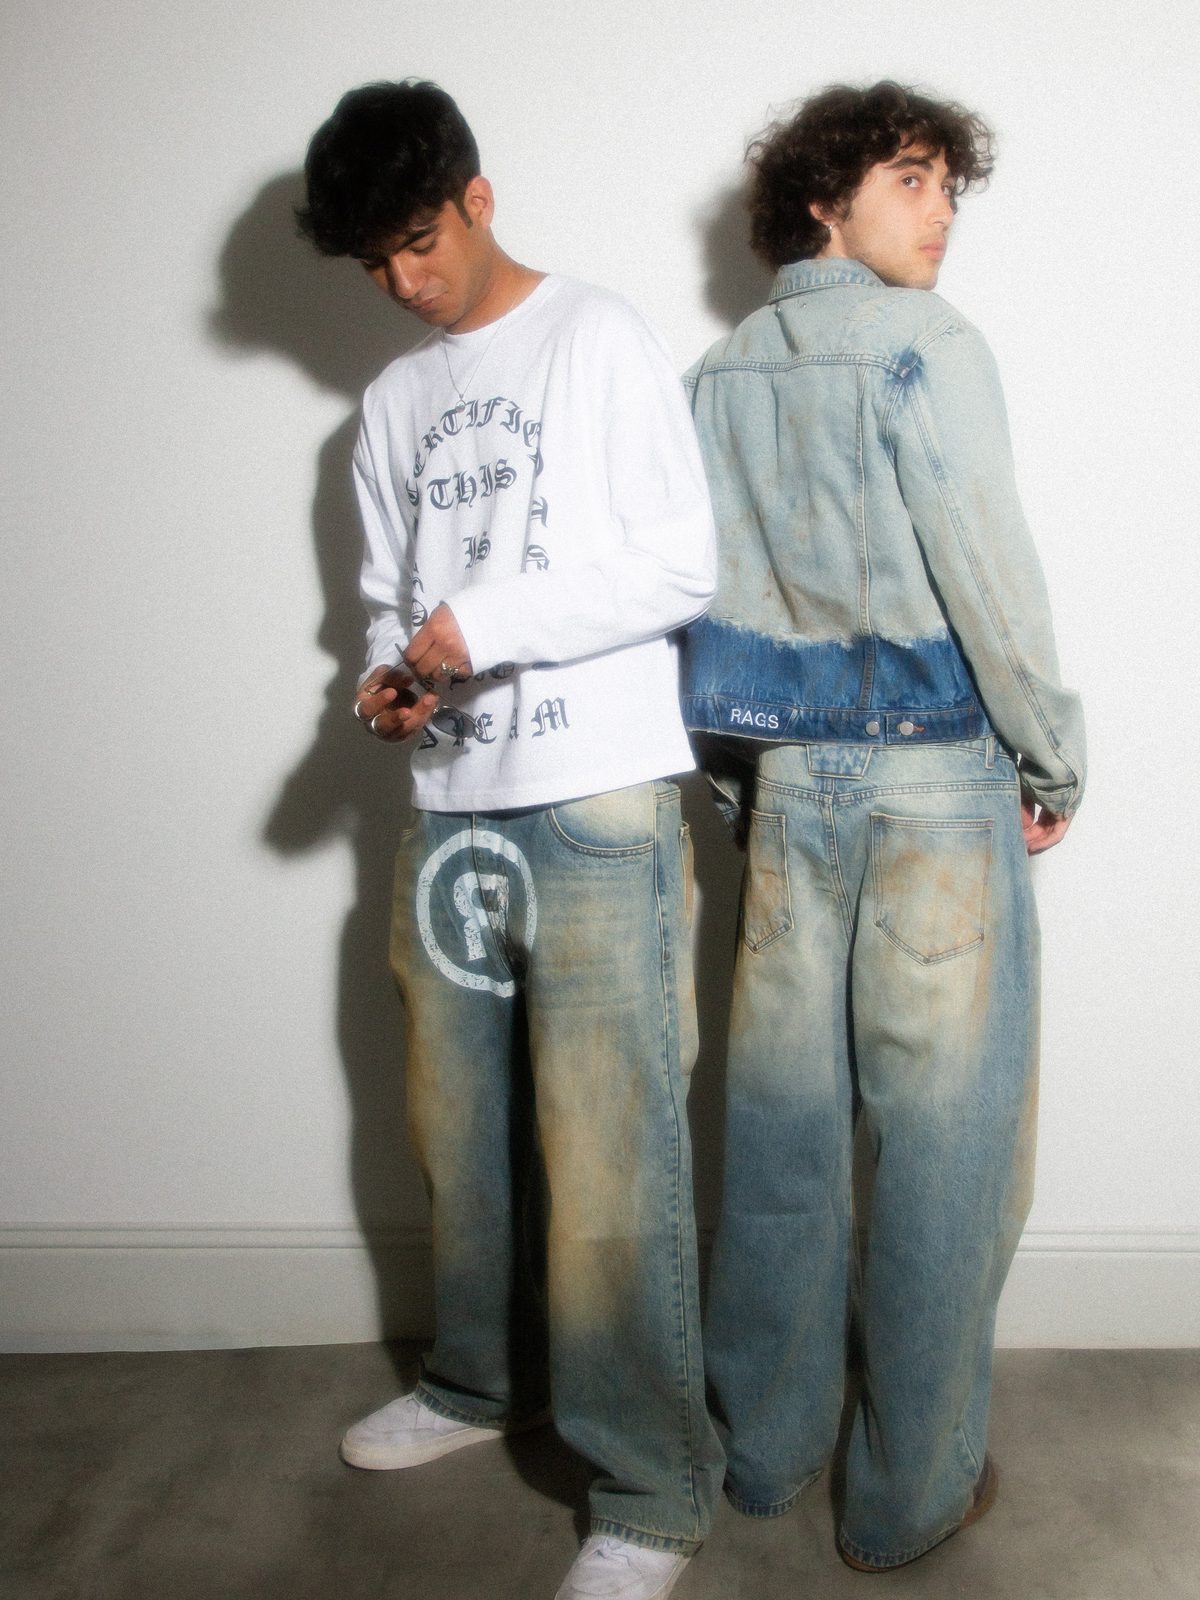
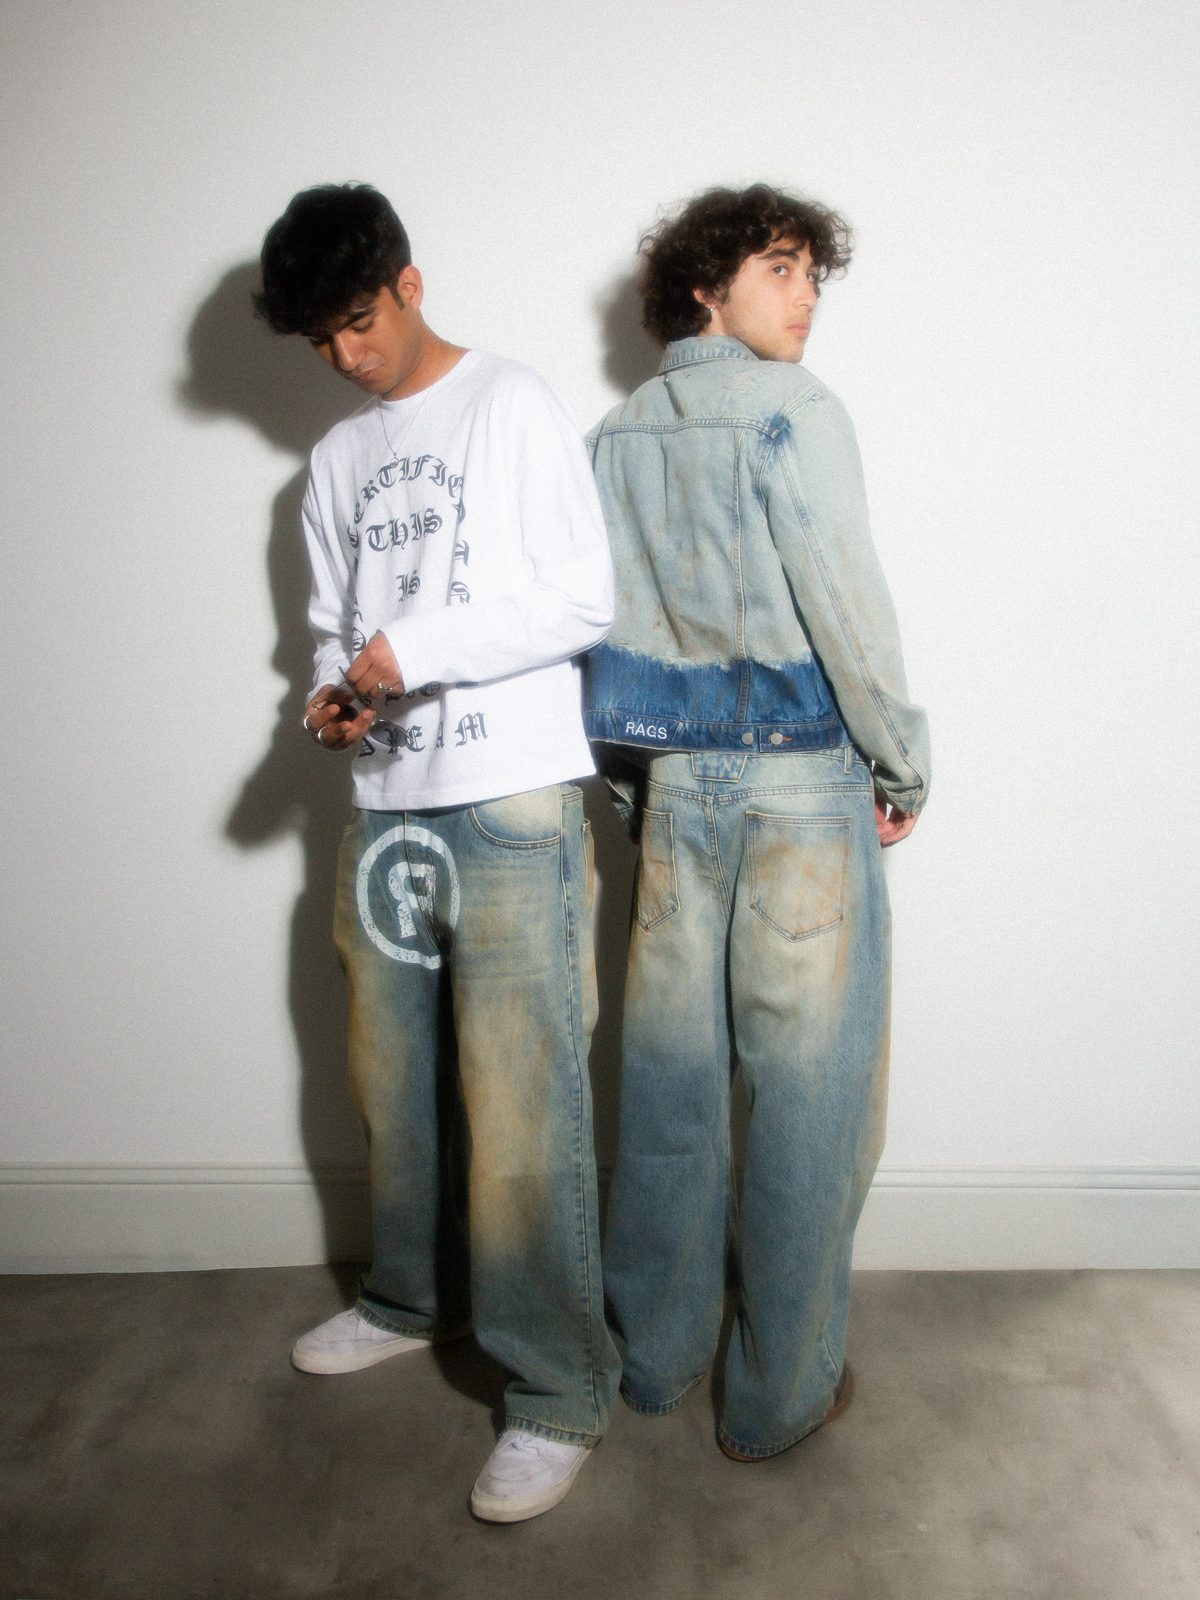
Home carousel: aligned edges, no cropped heads or feet
Render every photo in the same fixed 3:4 box so left and right edges
line up on every screen size. Rebuild the Pull&Bear photos from the
full originals, extending the studio backdrop at the sides instead of
cropping top and bottom, and restore the full frame of _MG_2799.

Claude-Session: https://claude.ai/code/session_012XeHsNCsxQhTQRDgts5yE7

diff --git a/src/data/home.ts b/src/data/home.ts
@@ -1,6 +1,7 @@
 // Photos for the scrolling column on the home page (files in public/home/).
 // Order rotates: MAD Fashion (Madrid) -> Pull&Bear editorial -> NYU FBA show.
-// Every photo is exactly 3:4, cropped with the subject centered.
+// Every photo is exactly 3:4 (1200x1600). Full body shots keep the head and feet:
+// the Pull&Bear studio shots have their backdrop extended at the sides instead of being cropped.
 
 export type Panel =
   | { type: "image"; src: string; alt: string; width?: number; height?: number }
@@ -8,17 +9,17 @@ export type Panel =
 
 export const PANELS: Panel[] = [
   { type: "image", src: "/home/mg-2502.jpg", alt: "MAD Fashion show, Madrid: model in an oversized black leather jacket", width: 1200, height: 1600 },
-  { type: "image", src: "/home/pullbear-25.jpg", alt: "Pull&Bear editorial: tan washed jacket with wide leg jeans", width: 1014, height: 1352 },
+  { type: "image", src: "/home/pullbear-25.jpg", alt: "Pull&Bear editorial: tan washed jacket with wide leg jeans", width: 1200, height: 1600 },
   { type: "image", src: "/home/img-0447.jpg", alt: "NYU FBA fashion show: model seated on a leather sofa in an olive jacket", width: 1200, height: 1600 },
 
   { type: "image", src: "/home/mg-2693.jpg", alt: "MAD Fashion show, Madrid: model in a cropped sage green jacket", width: 1200, height: 1600 },
-  { type: "image", src: "/home/pullbear-34.jpg", alt: "Pull&Bear editorial: pink cropped jacket and mini skirt set", width: 1008, height: 1344 },
+  { type: "image", src: "/home/pullbear-34.jpg", alt: "Pull&Bear editorial: pink cropped jacket and mini skirt set", width: 1200, height: 1600 },
   { type: "image", src: "/home/img-0485.jpg", alt: "NYU FBA fashion show: close up of a model in a washed gray denim jacket", width: 1200, height: 1600 },
 
   { type: "image", src: "/home/mg-2780.jpg", alt: "MAD Fashion show, Madrid: four models standing together", width: 1200, height: 1600 },
-  { type: "image", src: "/home/pullbear-164.jpg", alt: "Pull&Bear editorial: brown hooded jacket with black cargo trousers", width: 1098, height: 1464 },
+  { type: "image", src: "/home/pullbear-164.jpg", alt: "Pull&Bear editorial: brown hooded jacket with black cargo trousers", width: 1200, height: 1600 },
   { type: "image", src: "/home/img-0594.jpg", alt: "NYU FBA fashion show: black jacket with embroidered calligraphy", width: 1200, height: 1600 },
 
   { type: "image", src: "/home/mg-2799.jpg", alt: "MAD Fashion show, Madrid: two models in washed denim", width: 1200, height: 1600 },
-  { type: "image", src: "/home/pullbear-41.jpg", alt: "Pull&Bear editorial: washed gray overshirt with matching shorts", width: 1044, height: 1392 },
+  { type: "image", src: "/home/pullbear-41.jpg", alt: "Pull&Bear editorial: washed gray overshirt with matching shorts", width: 1200, height: 1600 },
 ];

diff --git a/src/components/react/VerticalCarousel.tsx b/src/components/react/VerticalCarousel.tsx
@@ -85,7 +85,7 @@ const VerticalCarousel: React.FC<VerticalCarouselProps> = ({
                 loading={i < 2 ? "eager" : "lazy"}
                 decoding="async"
                 draggable={false}
-                className="self-center w-full h-auto aspect-[3/4] object-cover md:w-auto md:aspect-auto md:max-h-[80vh] max-w-full"
+                className="self-center block w-full max-w-[60vh] h-auto aspect-[3/4] object-cover"
               />
             ) : (
               <div
